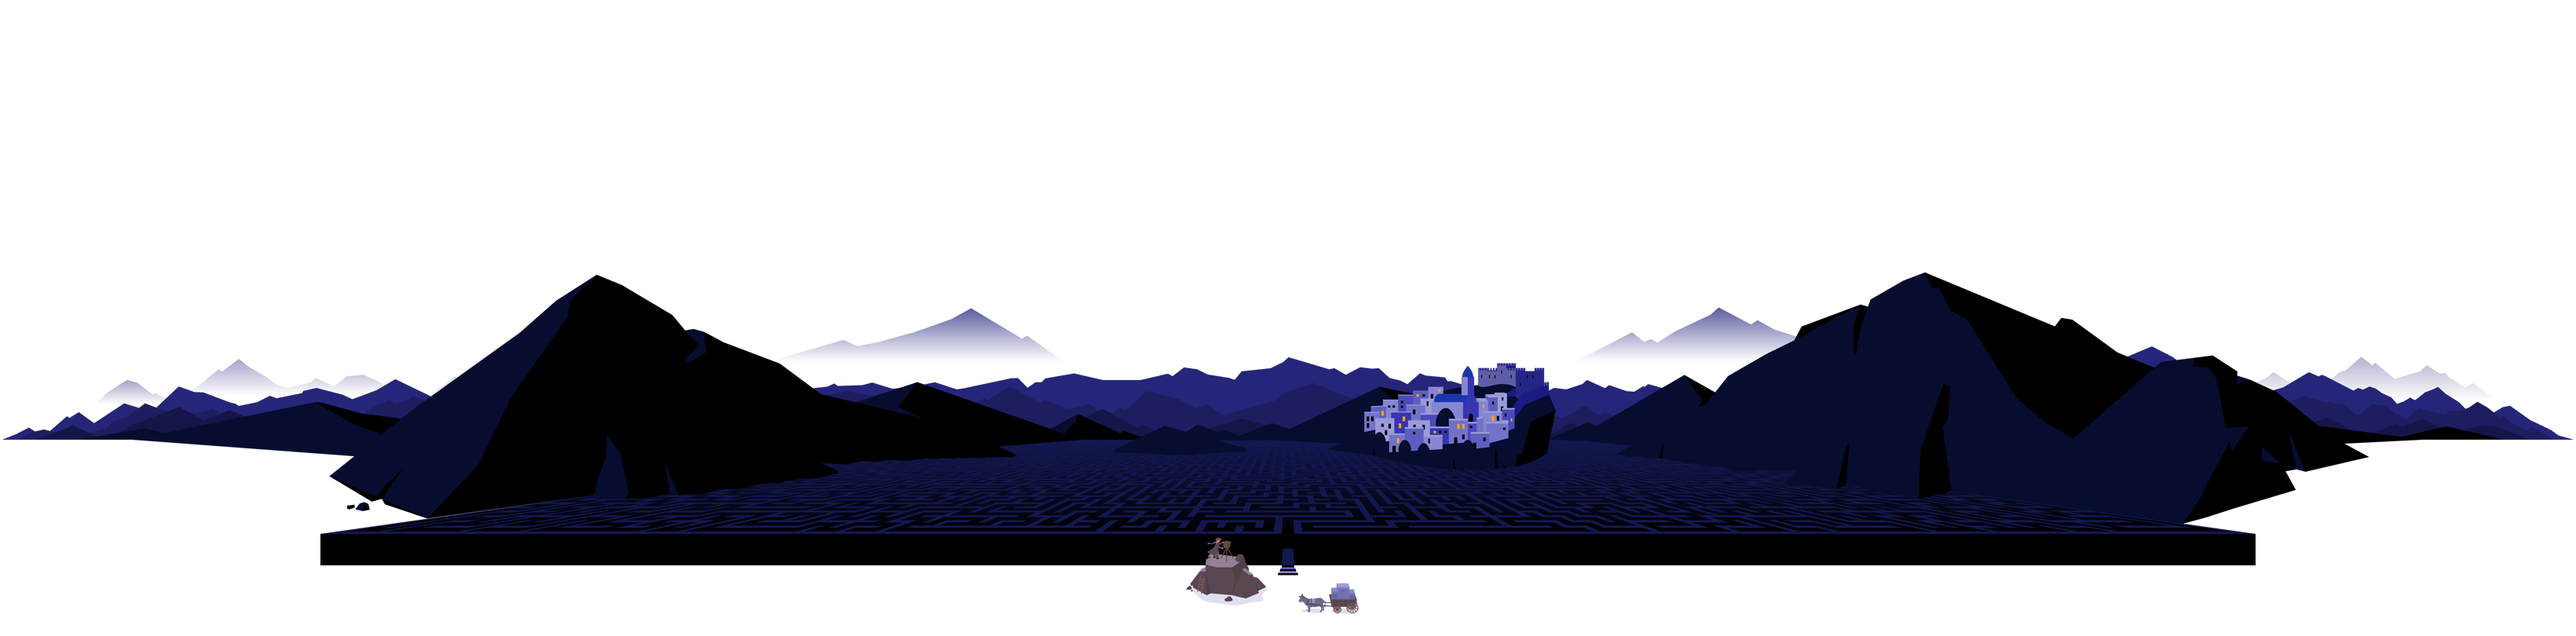
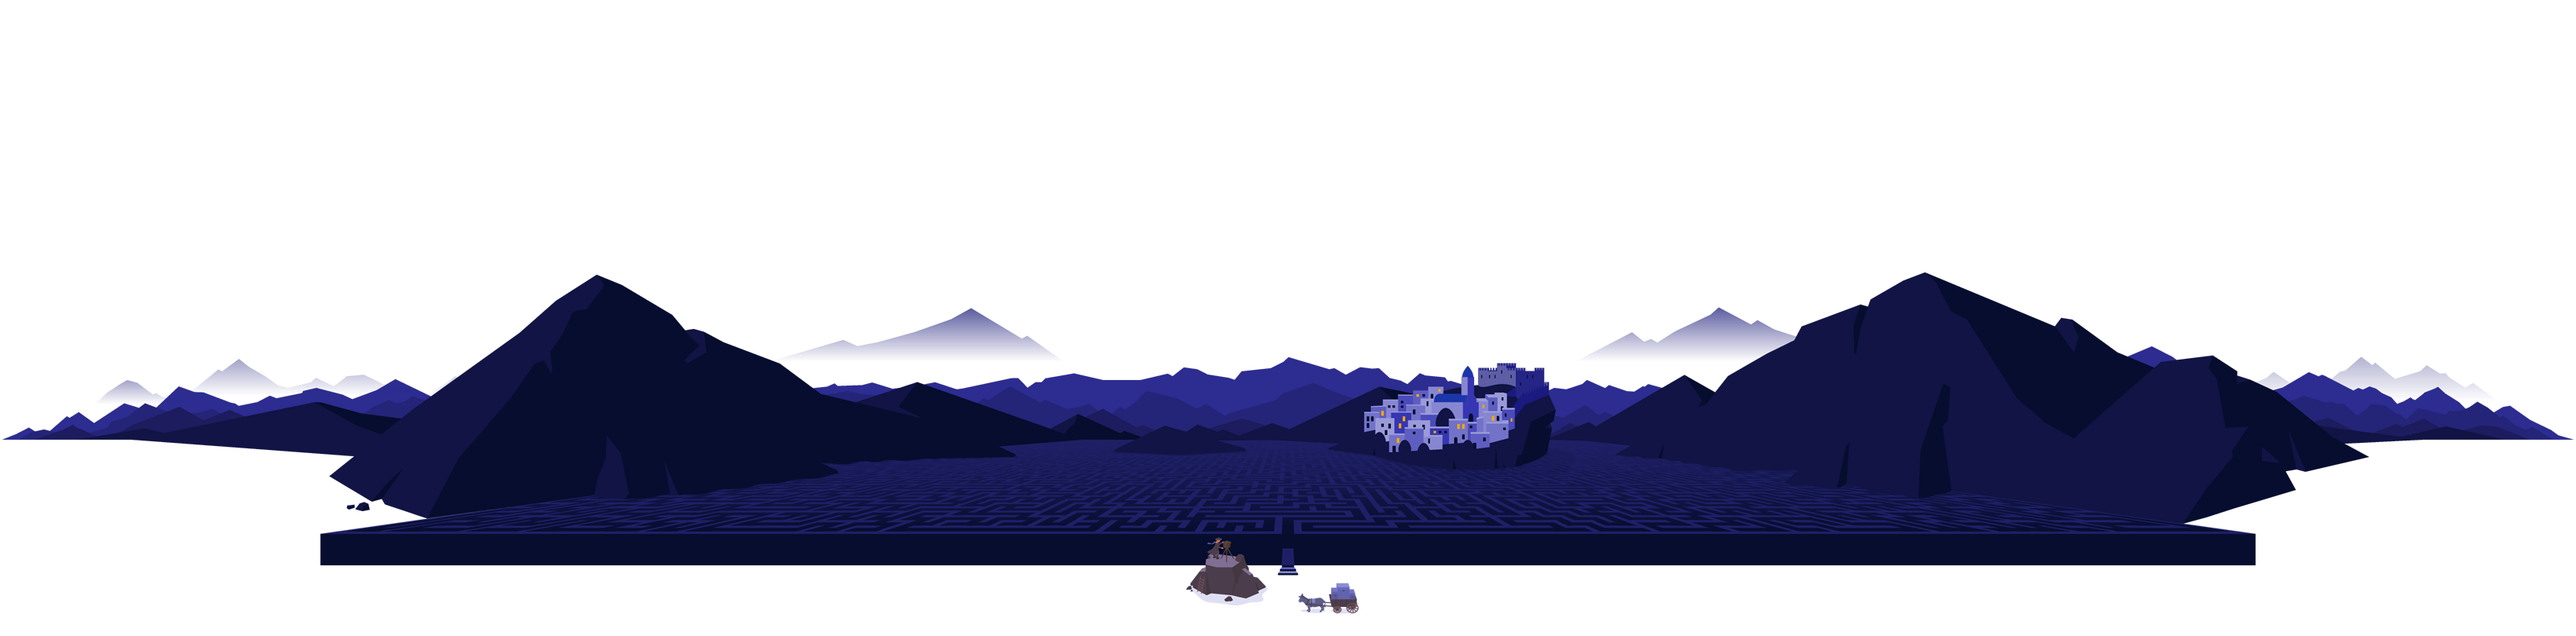
Use brighter shading for blog hero illustration. Finalize stars. Add illustration parts for mobile. Tweak spacing on mobiles.

diff --git a/assets/stylesheets/blog/_hero.scss b/assets/stylesheets/blog/_hero.scss
@@ -4,24 +4,24 @@
 
 main .blog-hero {
   display: flex;
-  flex-direction: column;
-  height: 439px;
-  background-image: linear-gradient(#000 0%, #4848b3 75%, #68c1e8 100%);
+  background-image: linear-gradient(#{$blue-darkest} 0%, #4848b3 56%, #68c1e8 100%);
   color: $white;
-  padding-top: $header-height-mobile + $space-xl;
+  padding-top: $section-padding-y-phone + 26px;
+  padding-bottom: $section-padding-y-phone + 66px + 10px; // Optical 80px
   margin-top: -$header-height-mobile;
   margin-bottom: $section-padding-y-phone + 171px;
   position: relative;
 
-  @media (pointer: coarse), (max-width: $sm - 1px) {
-    padding-bottom: 128px;
-  }
-
   @media (min-width: $sm) {
     height: 560px;
+    background-image: linear-gradient(#{$blue-darkest} 0%, mix($blue-darkest, #4848b3, 50%), #4848b3 75%, #68c1e8 100%);
     padding: $section-padding-y 0;
     margin-top: -$header-height;
     margin-bottom: $section-padding-y + 138px + 32px; // 32px: compensation for illustration
+  }
+
+  @media (pointer: coarse) and (min-width: $sm) {
+    height: 533px;
   }
 
   .fragment-loading & {
@@ -50,6 +50,36 @@ main .blog-hero {
     left: 0;
     height: 810px;
     pointer-events: none;
+    background: url("../images/blog-hero-illustration-mobile-part-2.png") no-repeat center bottom;
+
+    @media (-webkit-min-device-pixel-ratio: 2), (min-resolution: 2dppx) {
+      background:
+        url("../images/blog-hero-illustration-mobile-part-2@2x.png") no-repeat center bottom / 768px 810px;
+    }
+
+    @media (max-width: $sm - 1px) {
+      &::after {
+        content: "";
+        position: absolute;
+        top: 0;
+        right: 0;
+        bottom: 0;
+        left: 0;
+        background: url("../images/blog-hero-illustration-mobile-part-1.png") no-repeat -418px bottom;
+
+        @media (-webkit-min-device-pixel-ratio: 2), (min-resolution: 2dppx) {
+          background: url("../images/blog-hero-illustration-mobile-part-1@2x.png") no-repeat -418px bottom / 768px 810px;
+        }
+
+        @include tween(
+          -418px,
+          0px,
+          320px,
+          $sm,
+          background-position-x
+        );
+      }
+    }
 
     @media (min-width: $sm) {
       background: url("/assets/images/blog-hero-illustration.png") no-repeat center bottom;

diff --git a/assets/stylesheets/_variables.scss b/assets/stylesheets/_variables.scss
@@ -4,9 +4,10 @@
 
 // Colors
 
-$blue-light: #68c1e8;
-$blue:       #5c93e5;
-$blue-dark:  #395bac;
+$blue-light:   #68c1e8;
+$blue:         #5c93e5;
+$blue-dark:    #395bac;
+$blue-darkest: #060d2e;
 
 $white:      #fff;
 $gray-light: #e6e6eb; // 2% saturation
@@ -83,4 +84,4 @@ $footer-color:  $body-color;
 $blog-max-width: 700px;
 $blog-font-size: 17px;
 $blog-line-height: 1.6;
-$blog-link-color: mix($blue-dark, $blue, 50%);
+$blog-link-color: mix(#4848b3, $blue, 50%);

diff --git a/assets/stylesheets/blog/_post.scss b/assets/stylesheets/blog/_post.scss
@@ -65,7 +65,7 @@
         text-decoration: none;
 
         &:hover {
-          color: $blue-dark;
+          color: #4848b3;
         }
       }
     }
